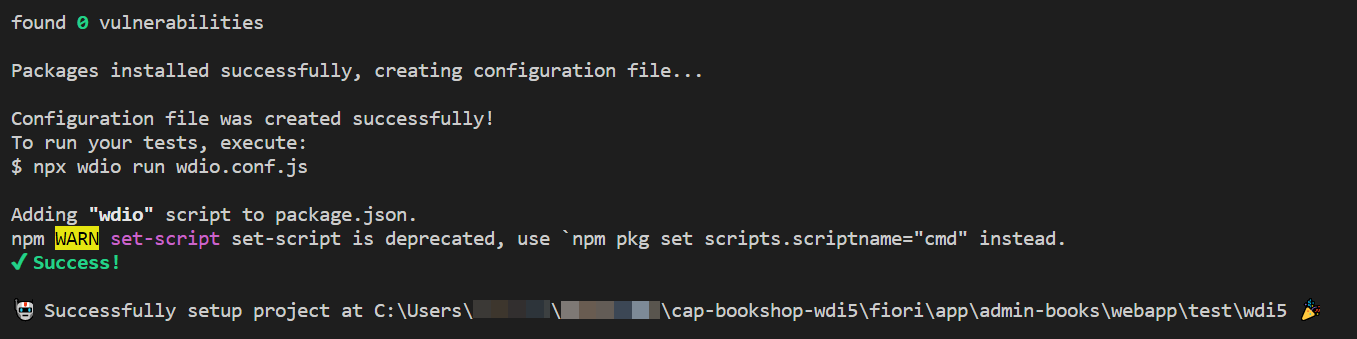
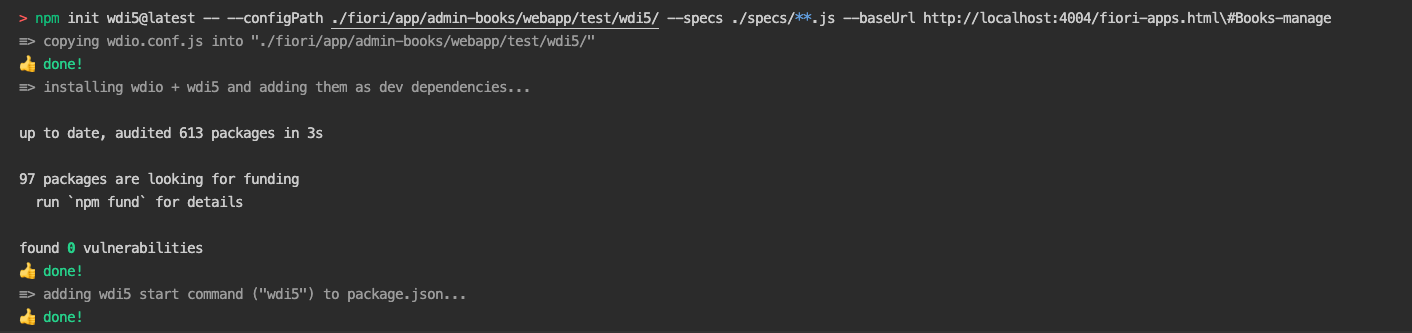
feat: update tutorial to new wdi5 quickinstall

diff --git a/tutorials/cp-wdi5-cap/cp-wdi5-cap.md b/tutorials/cp-wdi5-cap/cp-wdi5-cap.md
@@ -38,7 +38,7 @@ The tutorial consists of three main stages:
 
 2. Create and run system tests with wdi5 that add a new book to your bookshop and check if it's displayed in the list.
 
-3. Automate your system tests by integrating them into a CI/CD pipeline. 
+3. Automate your system tests by integrating them into a CI/CD pipeline.
 
 ### About System Tests with wdi5
 
@@ -60,7 +60,7 @@ The SAPUI5 Test Recorder is a tool that helps you create integration and system 
 
 > For more information about the SAPUI5 Test Recorder, see [Test Recorder](https://sapui5.hana.ondemand.com/#/topic/2535ef9272064cb6bd6b44e5402d531d).
 
-### About SAP Continuous Integration and Delivery 
+### About SAP Continuous Integration and Delivery
 
 SAP Continuous Integration and Delivery is a service on SAP Business Technology Platform, which lets you configure and run predefined continuous integration and delivery pipelines that build, test, and deploy your code changes.
 It provides an easy, UI-guided way to set up the service and configure and run your pipelines, without hosting your own Jenkins instance. See [What Is SAP Continuous Integration and Delivery?](https://help.sap.com/docs/CONTINUOUS_DELIVERY/99c72101f7ee40d0b2deb4df72ba1ad3/618ca03fdca24e56924cc87cfbb7673a.html?version=Cloud).
@@ -85,7 +85,7 @@ In Visual Studio Code, set up and run your bookshop application.
 
     As a result, the project `CAP-BOOKSHOP-WDI5` is loaded into the **EXPLORER** pane and you can see its resources in the outline:
 
-    ![Resources of the project in the explorer pane](FolderStructure.png) 
+    ![Resources of the project in the explorer pane](FolderStructure.png)
 
 6. In Visual Studio Code, choose **Terminal** **→** **New Terminal**.
 
@@ -105,32 +105,17 @@ In Visual Studio Code, set up and run your bookshop application.
 
 9. Open a new Terminal, for that choose **Terminal** **→** **New Terminal**
 
-10. Use the command `npm init wdio ./fiori/app/admin-books/webapp/test/wdi5/` to call the guided installation of WebdriverIO. Answer the questions as follows:
-    | Question | Answer |
-    | ----------- | ----------- |
-    | Where is my automation backend located? | On my local machine |
-    | Which framework do you want to use? | mocha |
-    | Do you want to use a compiler? | No! |
-    | Where are your test specs located? | ./specs/*.js |
-    | Do you want WebdriverIO to autogenerate some test files? | N or no |
-    | Which reporter do you want to use? | spec, timeline (select them via SPACE) |
-    | Do you want to add a plugin to your test setup? | No Plugin (ENTER) |
-    | Do you want to add a service to your test setup? | chromedriver, ui5 (select them via SPACE) |
-    | What is the base url? | http://localhost:4004/fiori-apps.html#Books-manage |
-    | Do you want me to run npm install | Y or yes |
+10. Use the command `npm init wdi5@latest -- --configPath ./fiori/app/admin-books/webapp/test/wdi5/ --specs ./**/wdi5/specs/**.js --baseUrl http://localhost:4004/fiori-apps.html\#Books-manage` to call the quickstart installation of wdi5.
 
     The console output should look as follows:
 
-    ![Terminal response for the 'npm init wdio' command](wdi5_init.png)  
-    
+    ![Terminal response for the 'npm init wdi5' command](wdi5_init.png)
+
 11. In your project in the **EXPLORER** pane, choose **`fiori`** **→** **`app`** **→** **`admin-books`** **→** **`webapp`** **→** **`test`** **→** **`wdi5`**.
 
 12. Now you can see all the files through which you can define system tests with wdi5:
 
     ![Resources of the wdi5 folder in the explorer pane](wdi5FolderStructure.png)
-
-    >The `test\wdi5` folder is created with the first test execution.
-
 
     - (a) The `wdio.conf.js` file:
 
@@ -148,6 +133,12 @@ In Visual Studio Code, set up and run your bookshop application.
            - Assertions, for example, checking if the newly created book is displayed in the list of books
 
          Page objects use locators to identify specific elements on the screen. Thereby, they allow test runners to see and do anything a real user would. Page objects reside in the `pageobjects` folder of your project.
+
+13. Use the command `npm install --save wdio-timeline-reporter` to install the timeline reporter
+
+    The console ouput should look as follows:
+
+    ![Terminal response for the 'npm install --save wdio-timeline-reporter' command](wdi5_install_timeline_reporter.png)
 
 14. Add following snippets to configure the timeline reporter correctly in the `wdio.conf.js`:
 
@@ -179,7 +170,7 @@ In Visual Studio Code, set up and run your bookshop application.
 
 15. Now, your project setup is ready. Make sure that your code looks as follows and choose **File** **→** **Save**.
 
-    ![wdio.conf.js after finishing the project setup](confjs.png) - TODO: Update image Simon
+    ![wdio.conf.js after finishing the project setup without comments](confjs.png)
 
 
 [VALIDATE_6]x
@@ -197,7 +188,7 @@ Familiarize yourself with your test scenario before starting to code it. Later, 
 
 2. Choose **Create**:
 
-    !![Create button in bookshop app](createButton.png) => TODO Update image
+    !![Create button in bookshop app](createButton.png)
 
 3. Enter the title of your new book, for example, *How to Cook Pancakes*:
 
@@ -266,7 +257,7 @@ Create a wdi5 script to test the creation of a new book in your bookshop applica
 
     This file represents the page object for your bookshop application. In page objects, you can define actions that are performed during a test and make assertions:
 
-    ![Structure of page objects](manageBooksPO.png) - TODO: Update
+    ![Structure of page objects](manageBooksPO.png)
 
 5. In the bookshop application in Google Chrome, press **CTRL** + **SHIFT** + **ALT** + **T** (if you use a Windows system) or **SHIFT** + **CTRL** + **OPTION** + **T** (if you use a Mac system) to open the Test Recorder in a new browser window.
 
@@ -274,17 +265,17 @@ Create a wdi5 script to test the creation of a new book in your bookshop applica
 
     As a result, the Test Recorder highlights the entry to indicate its activity:
 
-    ![Test recorder highlights the create button](CreateButtonPress.gif) 
+    ![Test recorder highlights the create button](CreateButtonPress.gif)
 
     Now, the Test Recorder provides a code snippet for your test:
 
-    ![Test recorder provides code snippet for wdi5 test](SelectDialectwdi5.gif) 
+    ![Test recorder provides code snippet for wdi5 test](SelectDialectwdi5.gif)
 
     Please make sure that the dialect *wdi5* is selected.
 
 7. Copy the generated code snippet into the `module.exports` section of your `manageBooks.page.js` and name the function `iClickOnCreateNewBook`.
 
-    ![Clicking the create button action in the manageBooks page object](ClickCreateButtonLogic.png) 
+    ![Clicking the create button action in the manageBooks page object](ClickCreateButtonLogic.png)
 
 [DONE]
 [ACCORDION-END]
@@ -319,11 +310,11 @@ Create a wdi5 script to test the addition of detailed information to your newly 
 
     As a result, the Test Recorder highlights the input field to indicate its activity:
 
-    ![teched.spec.js with enter title action](EnterTitle2.gif) 
+    ![teched.spec.js with enter title action](EnterTitle2.gif)
 
     Now, the Test Recorder provides a code snippet for your test:
 
-    ![The test recorder provides a code snippet for the enter title action](wdi5_EnterBookTitle.png) 
+    ![The test recorder provides a code snippet for the enter title action](wdi5_EnterBookTitle.png)
 
     Please make sure that the dialect *wdi5* is selected.
 
@@ -338,7 +329,7 @@ Create a wdi5 script to test the addition of detailed information to your newly 
     ``` JavaScript
     await NewBookPage.iSelectGenre();
     ```
-    ![Code snippet for select genre action in bookshop.test.js file](SelectGenreSpec.png)   
+    ![Code snippet for select genre action in bookshop.test.js file](SelectGenreSpec.png)
 
 8. In your bookshop application, right-click the **Genre** drop-down menu and choose **Press**.
 
@@ -348,7 +339,7 @@ Create a wdi5 script to test the addition of detailed information to your newly 
 
     Now, the Test Recorder provides a code snippet for your test:
 
-    ![The test recorder provides a code snippet for the genre drop-down menu](GenreDropDownSnippet.png) 
+    ![The test recorder provides a code snippet for the genre drop-down menu](GenreDropDownSnippet.png)
 
     Please make sure that the dialect *wdi5* is selected.
 
@@ -380,17 +371,17 @@ Create a wdi5 script to test the addition of detailed information to your newly 
 
 15. Copy the generated snippet into the `module.exports` section of your `newBook.page.js`. Name the funcions `iPressCreate` and add the expected behavior to your `bookshop.test.js`.
 
-    ![newBook.page.js after adding the code snippet for pressing the Create button](ClickSaveBtnSnippet.png) 
+    ![newBook.page.js after adding the code snippet for pressing the Create button](ClickSaveBtnSnippet.png)
 
 16. To ensure that the save action was successful, verify that the **Edit** button is displayed. Add the expected behavior to your `bookshop.test.js`:
 
-    ![bookshop.test.js after adding the code snippet for verifying that the edit button is displayed](EditButtonAssertion1.png) 
+    ![bookshop.test.js after adding the code snippet for verifying that the edit button is displayed](EditButtonAssertion1.png)
 
 17. In the bookshop application, right-click the **Edit** button and choose **Highlight**.
 
 18. On the right side of the Test Recorder window you find a section with Properties and Bindings. Choose the icon that is located on the left of the property *enabled*. This will `expect(enabled).toBeTruthy();` to the code snippet.
 
-    ![Code snipped with property "enabled"](EnabledButton.gif) 
+    ![Code snipped with property "enabled"](EnabledButton.gif)
 
 19. Copy the generated code snippet from the Test Recorder into the `module.exports` section in your `newBook.page.js` and name the function `iSeeEditButton`. - TODO(Georg,Simon): Update and Remove the next step
 
@@ -434,22 +425,22 @@ Create a wdi5 script to test the addition of detailed information to your newly 
 
 26. On the right side of the Test Recorder window you find a section with Properties and Bindings. Choose the icon that is located on the left of the property *visible* in the *Inherited* section. This will add `expect(visible).toBeTruthy();` to the code snippet. => TODO(Georg,Simon): Shall we use that as assertion
 
-    ![Test recorder highlights the book entry](Title-HighlightEvent.gif) 
+    ![Test recorder highlights the book entry](Title-HighlightEvent.gif)
 
 27. Copy the generated code snippet into the `module.exports` section of your `manageBooks.page.js` and name the function `theBookListContains`.
 
     It look as follows:
 
-    ![Page object after adding the code snippet from the test recorder](NewBookisInList.png) 
+    ![Page object after adding the code snippet from the test recorder](NewBookisInList.png)
 
-Choose **File** **→** **Save**.    
+Choose **File** **→** **Save**.
 
 28. Right-click your *test\wdi5* folder in the **EXPLORER** pane and choose **Open in Integrated Terminal**.
 
 29. To run your test, execute the following command:
 
     ```Bash/Shell
-    npm run wdio
+    npm run wdi5
     ```
 
     If your test run was successful, your terminal response should look as follows:
@@ -461,16 +452,16 @@ Choose **File** **→** **Save**.
     >- In case you are facing timeout error as shown below:
     >
      >![error snippet from console for step timeout](cucumbertimeout.png)
-     >    
+     >
      >The timeout property is applicable at each step definition. However, if you want to increase the timeout because your test takes longer than the default value, then you need to set it in the mocha framework options. In the wdio.conf.js set the time as shown below:
-    >    
+    >
     >            ``` JavaScript
     >            // wdio.conf.js
     >            exports.config = {
     >                //.....
     >                mochaOpts: {
-    >                ui: 'bdd',
-    >                timeout: 60000
+    >                   ui: 'bdd',
+    >                   timeout: 60000
     >                }
     >                //.....
     >            }
@@ -478,27 +469,41 @@ Choose **File** **→** **Save**.
 
     >- Another known timeout error is while waiting for the ui5 controller to wait as shown below:
 
-    > ![error snippet from console for ui5timeout](waitforui5error.png) 
+    > ![error snippet from console for ui5timeout](waitforui5error.png)
     >
     >If you are getting timeout errors while waiting for an UI5 element to load or be visible, then consider increasing the maximum waiting time for the availability of UI5 control. In the wdio.conf.js set the time as shown below:
-    >    
+    >
     >           ``` JavaScript
-    >            /// wdio.conf.js
-    >            exports.config = {
-    >            //.....
-    >            wdi5: {
-    >                waitForUI5Timeout: 60000,
-    >            },
-    >            //.....
-    >            }
+    >           /// wdio.conf.js
+    >           exports.config = {
+    >               //.....
+    >               wdi5: {
+    >                   waitForUI5Timeout: 60000,
+    >               },
+    >               //.....
+    >           }
     >           ```
+
+    >- Another timeout we have to increase when we increase the `waitForUI5Timeout` and/or the `mochaOpts` timeout higher than 30 seconds is the session script timeout. In the wdio.conf.js set the time as shown below:
+    >
+    >           ``` JavaScript
+    >           /// wdio.conf.js
+    >           exports.config = {
+    >               //.....
+    >               before: function (capabilities, spec) {
+    >                   browser.setTimeout({ 'script': 60000 })
+    >               },
+    >               //.....
+    >           }
+    >           ````
+
 
 
 30. In the **EXPLORER** pane, right-click the `timeline-report.html` in the `target` folder and choose **Reveal in File Explorer**.
 
-31. Double-click the `timeline-report` in the file explorer: 
+31. Double-click the `timeline-report` in the file explorer:
 
-    ![timeline-report.html in the file explorer](ReportHtml.png) 
+    ![timeline-report.html in the file explorer](ReportHtml.png)
 
 [DONE]
 [ACCORDION-END]
@@ -607,7 +612,7 @@ Connect SAP Continuous Integration and Delivery with the repository in which you
 
     ![Copy GitHub Clone URL](CICD_CloneURL.png)
 
-4. Paste it into the **Clone URL** field in the **Add Repository** pop-up in SAP Continuous Integration and Delivery. 
+4. Paste it into the **Clone URL** field in the **Add Repository** pop-up in SAP Continuous Integration and Delivery.
 
 5. Choose **Add**.
 
@@ -620,7 +625,7 @@ Connect SAP Continuous Integration and Delivery with the repository in which you
 
  Configure a basic CI/CD job and automate your system tests by integrating them into a CI/CD pipeline.
 
-1. Execute a Git commit and push the content of your local `CAP-BOOKSHOP-WDI5` project into your GitHub repository.  
+1. Execute a Git commit and push the content of your local `CAP-BOOKSHOP-WDI5` project into your GitHub repository.
 
 2. In SAP Continuous Integration and Delivery, go to the Jobs tab and choose **+** *(Create job)*.
 
@@ -628,7 +633,7 @@ Connect SAP Continuous Integration and Delivery with the repository in which you
 
 |   Parameter  |  Value   |
 | --- | --- |
-|  Job Name	   |  Freely choose a unique name for your job, for example, `cap-bookshop-wdi5`. 
+|  Job Name	   |  Freely choose a unique name for your job, for example, `cap-bookshop-wdi5`.
   Repository |From the drop-down list, choose your repository.
 |   Branch  |    Enter the branch of your repository for which you want to configure your CI/CD job, for example, `main`. |
 |  Pipeline   |   	From the drop-down list, choose **SAP Cloud Application Programming Model**.  |
